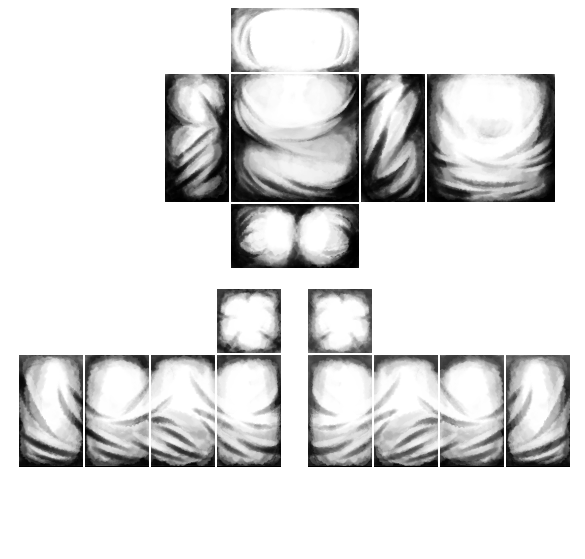
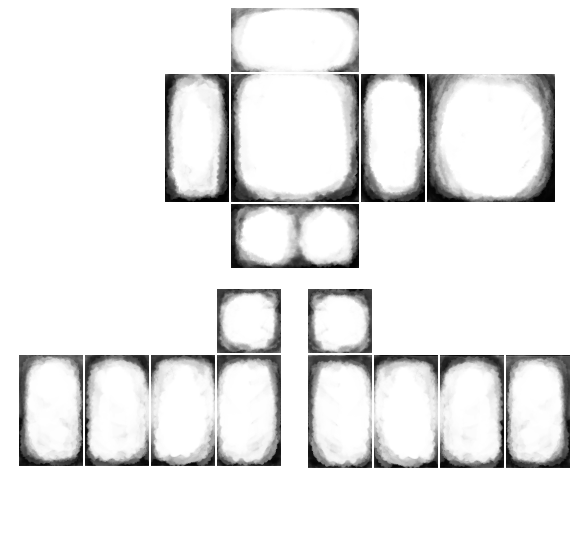
No Shader Option and new shaders

diff --git a/src/components/Toolbar/Toolbar.jsx b/src/components/Toolbar/Toolbar.jsx
@@ -118,22 +118,37 @@ const Toolbar = ({
                       className="position-fixed bg-dark border border-secondary rounded p-1 mt-4 col-2 overflow-y-auto h-50"
                       style={{ zIndex: 1000 }}
                     >
-                      {shadings.map((fileUrl) => (
-                        <img
-                          src={process.env.PUBLIC_URL + fileUrl}
-                          onClick={(e) => {
-                            e.stopPropagation();
-                            setSelectedShading(
-                              process.env.PUBLIC_URL + fileUrl,
-                            );
-                            setShader(process.env.PUBLIC_URL + fileUrl);
-                            handleAutoUV();
-                          }}
-                          alt="Shading Option"
-                          className={`img-thumbnail m-1 ${getShader() === fileUrl && "border-5 border-primary"}`}
-                          style={{ width: "100px", cursor: "pointer" }}
-                        />
-                      ))}
+                      {shadings.map((fileUrl) =>
+                        fileUrl === "none" ? (
+                          <img
+                            onClick={(e) => {
+                              e.stopPropagation();
+                              setSelectedShading(
+                                process.env.PUBLIC_URL + fileUrl,
+                              );
+                              setShader(process.env.PUBLIC_URL + fileUrl);
+                              handleAutoUV();
+                            }}
+                            className={`img-thumbnail ${getShader() === fileUrl && "border-5 border-primary"}`} 
+                            style={{ width: "100px", height: "100px" }}
+                          ></img>
+                        ) : (
+                          <img
+                            src={process.env.PUBLIC_URL + fileUrl}
+                            onClick={(e) => {
+                              e.stopPropagation();
+                              setSelectedShading(
+                                process.env.PUBLIC_URL + fileUrl,
+                              );
+                              setShader(process.env.PUBLIC_URL + fileUrl);
+                              handleAutoUV();
+                            }}
+                            alt="Shading Option"
+                            className={`img-thumbnail m-1 ${getShader() === fileUrl && "border-5 border-primary"}`}
+                            style={{ width: "100px", cursor: "pointer" }}
+                          />
+                        ),
+                      )}
                     </div>
                   )}
                 </button>

diff --git a/src/utils/shadingHelper.js b/src/utils/shadingHelper.js
@@ -16,10 +16,18 @@ export const shadings = [
   process.env.PUBLIC_URL+'templates/shadings/shader4.png',
   process.env.PUBLIC_URL+'templates/shadings/shader5.png',
   process.env.PUBLIC_URL+'templates/shadings/shader6.png',
+  process.env.PUBLIC_URL+'templates/shadings/shader7.png',
+  process.env.PUBLIC_URL+'templates/shadings/shader8.png',
+  process.env.PUBLIC_URL+'templates/shadings/shader9.png',
+  process.env.PUBLIC_URL+'templates/shadings/shader10.png',
+  "none"
 ];
 
 const loadShadingTemplate = () => {
   return new Promise((resolve) => {
+    if(shader==="none") {
+      resolve(null)
+    }
     if (shadingCache[shader]) {
       resolve(shadingCache[shader]);
       return;
@@ -37,6 +45,7 @@ const loadShadingTemplate = () => {
 
 export const applyAutomaticShading = async (sourceCanvas, opacity = 0.7) => {
   const shadingImg = await loadShadingTemplate();
+  if (!shadingImg) return sourceCanvas;
   const shadedCanvas = document.createElement("canvas");
   shadedCanvas.width = sourceCanvas.width; // 585
   shadedCanvas.height = sourceCanvas.height; // 559
